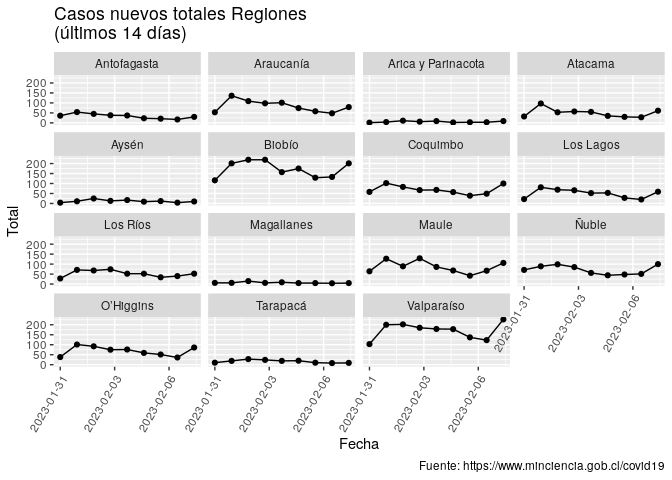
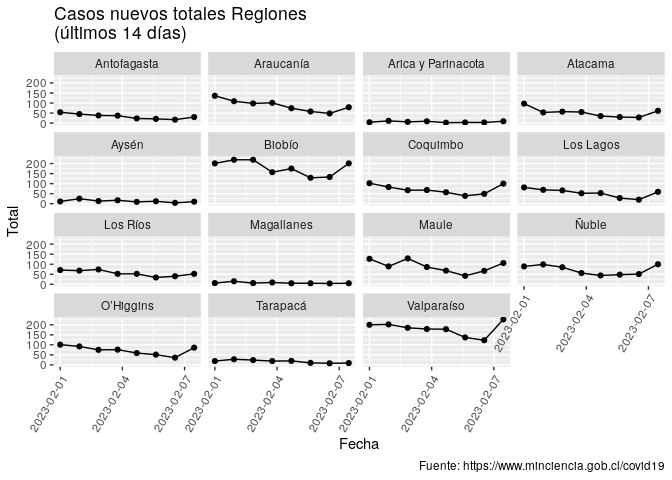
Re-build Rmarkdown files

diff --git a/README.md b/README.md
@@ -3,7 +3,7 @@
 
 Ejemplo de uso de total\_casos de COVID recopilados por el Ministerio de
 Ciencia de Chile <https://www.minciencia.gob.cl/covid19>. Última
-actualización: 2023-02-13
+actualización: 2023-02-14
 
 ## Visualización desde el comienzo de la pandemia
 
